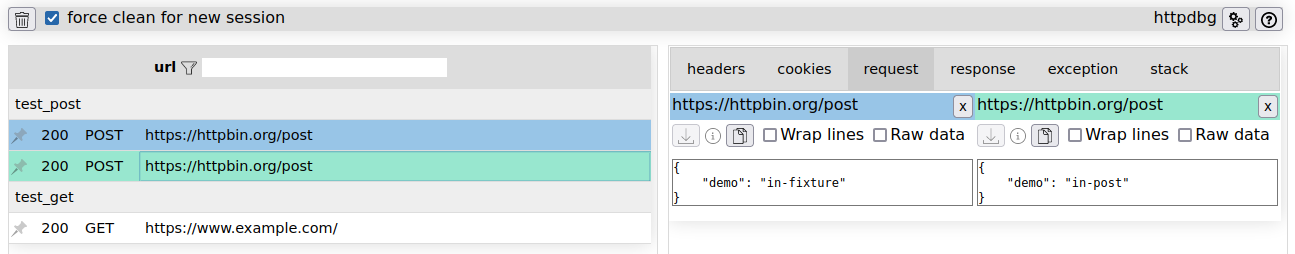
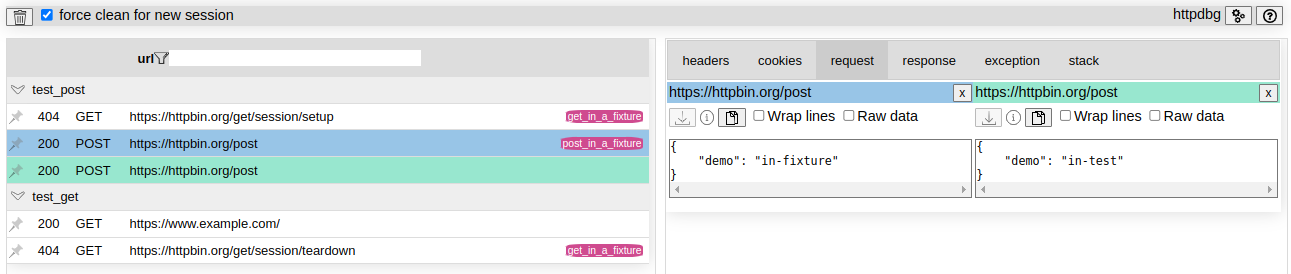
pytest fixtures and tags in IU (#8)

Changed region(s): [[0.0, 0.0, 1.0, 1.0], [0.0, 0.8819, 0.5267, 0.9646], [0.0, 0.3031, 0.062, 0.3583]]

diff --git a/examples/test_demo.py b/examples/test_demo.py
@@ -2,15 +2,22 @@ import pytest
 import requests
 
 
+@pytest.fixture(scope="session", autouse=True)
+def get_in_a_fixture():
+    requests.get("https://httpbin.org/get/session/setup")
+    yield
+    requests.get("https://httpbin.org/get/session/teardown")
+
+
 @pytest.fixture()
-def a_post():
+def post_in_a_fixture():
     return requests.post("https://httpbin.org/post", json={"demo": "in-fixture"})
 
 
-def test_post(a_post):
-    assert a_post.status_code == 200
+def test_post(post_in_a_fixture):
+    assert post_in_a_fixture.status_code == 200
     assert (
-        requests.post("https://httpbin.org/post", json={"demo": "in-post"}).status_code
+        requests.post("https://httpbin.org/post", json={"demo": "in-test"}).status_code
         == 200
     )
 

diff --git a/docs/pytest.md b/docs/pytest.md
@@ -20,7 +20,7 @@ pip install httpdbg[pytest]
 
 _pytest-httpdbg_ has been tested on:
 
- * Python `3.7`, `3.8`, `3.9`, `3.10`, `3.11`, `3.12`.
+ * Python `3.8`, `3.9`, `3.10`, `3.11`, `3.12`.
  * Pytest >= `7.0`.
  * `Linux`, `Windows`, `MacOS`.
 
@@ -36,15 +36,22 @@ import pytest
 import requests
 
 
+@pytest.fixture(scope="session", autouse=True)
+def get_in_a_fixture():
+    requests.get("https://httpbin.org/get/session/setup")
+    yield
+    requests.get("https://httpbin.org/get/session/teardown")
+
+
 @pytest.fixture()
-def a_post():
+def post_in_a_fixture():
     return requests.post("https://httpbin.org/post", json={"demo": "in-fixture"})
 
 
-def test_post(a_post):
-    assert a_post.status_code == 200
+def test_post(post_in_a_fixture):
+    assert post_in_a_fixture.status_code == 200
     assert (
-        requests.post("https://httpbin.org/post", json={"demo": "in-post"}).status_code
+        requests.post("https://httpbin.org/post", json={"demo": "in-test"}).status_code
         == 200
     )
 
@@ -65,9 +72,11 @@ Open `http://localhost:4909`
 
 ![httpdbg web interface](img/pytest-2.png)
 
-## pytest
+When an HTTP request is sent from a fixture, the name of the fixture is displayed in the UI. If you prefer not to see this information, you can choose to hide the tags in the UI settings. See [User interface > Configuration](ui.md) for more details.
 
-You can use `httpdbg` to save the trace of the HTTP requests in your test report.
+## pytest-httpdbg
+
+You can use the pytest plugin `pytest-httpdbg` to save the trace of the HTTP requests in your test report.
 
 ### usage
 

diff --git a/docs/getting_started.md b/docs/getting_started.md
@@ -12,7 +12,7 @@ _httpdbg_ is available on _pip_.
 
 _httpdbg_ has been tested on:
 
- * Python `3.6`, `3.7`, `3.8`, `3.9`, `3.10`, `3.11`, `3.12`.
+ * Python `3.8`, `3.9`, `3.10`, `3.11`, `3.12`.
  * `Linux`, `Windows`, `MacOS`.
 
 ## usage
